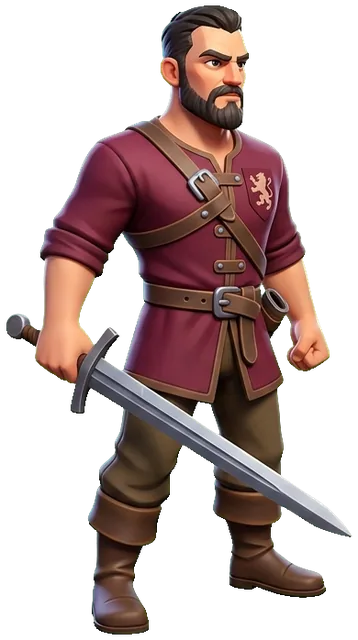
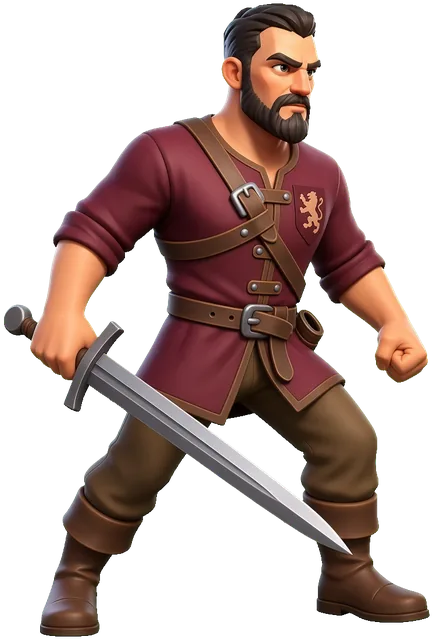
art: rigenera il Lord in posa di combattimento e aggiungi le silhouette di parallasse
- gen_art.py: prompt del Lord riscritti (posa eroica rivolta a destra, luce
  calda + controluce freddo) e nuovo gruppo "parallax" con 3 skyline di
  mezzo e 3 fasce di primo piano, generate come silhouette nere pure su
  fondo chroma verde cosi' da poter essere tinte a runtime per ogni regione.
- L'import di emergentintegrations diventa lazy: la post-produzione
  (chroma key, trim, manifest) ora funziona anche senza l'SDK.
- Rigenerati i 3 ritratti del Lord e i 6 nuovi livelli, manifest aggiornato.

diff --git a/frontend/src/art/manifest.ts b/frontend/src/art/manifest.ts
@@ -139,6 +139,12 @@ export const ART: Record<string, number> = {
   "monsters/world_beast": require("../../assets/art/monsters/world_beast.webp"),
   "monsters/world_devourer": require("../../assets/art/monsters/world_devourer.webp"),
   "monsters/wyvern": require("../../assets/art/monsters/wyvern.webp"),
+  "parallax/fg_bones": require("../../assets/art/parallax/fg_bones.webp"),
+  "parallax/fg_flora": require("../../assets/art/parallax/fg_flora.webp"),
+  "parallax/fg_rocks": require("../../assets/art/parallax/fg_rocks.webp"),
+  "parallax/mid_forest": require("../../assets/art/parallax/mid_forest.webp"),
+  "parallax/mid_peaks": require("../../assets/art/parallax/mid_peaks.webp"),
+  "parallax/mid_ruins": require("../../assets/art/parallax/mid_ruins.webp"),
   "resources/clay": require("../../assets/art/resources/clay.webp"),
   "resources/event_tokens": require("../../assets/art/resources/event_tokens.webp"),
   "resources/forge_dust": require("../../assets/art/resources/forge_dust.webp"),

diff --git a/backend/scripts/gen_art.py b/backend/scripts/gen_art.py
@@ -21,7 +21,6 @@ from PIL import Image, ImageFilter
 BACKEND = Path(__file__).resolve().parents[1]
 load_dotenv(BACKEND / ".env")
 sys.path.insert(0, str(BACKEND))
-from emergentintegrations.llm.chat import LlmChat, UserMessage  # noqa: E402
 
 MODEL = "gemini-3.1-flash-image-preview"
 CANON = json.load(open(BACKEND / "canon" / "IDLE_1_v1.1_CANONICAL_SPEC.json"))
@@ -55,12 +54,40 @@ def background_prompts():
 
 
 def lord_prompts():
-    base = "Exactly ONE character (single figure, no turnaround, no multiple views): The Lord, heroic human knight commander, mid-30s, determined face, short dark hair and beard, full body 3/4 view facing RIGHT, holding a longsword in the right hand"
+    # v1.10: heroic combat stance instead of the old idle pose, plus rim light, so the Lord reads against the battle backdrop.
+    base = ("Exactly ONE character (single figure, no turnaround, no multiple views): The Lord, heroic human knight commander, mid-30s, determined face, short dark hair and beard, "
+            "full body 3/4 view FACING RIGHT, heroic dynamic combat stance with the weight forward on the front leg, powerful heroic proportions, crisp readable silhouette")
+    light = ("strong warm key light from the upper right, cool rim light along the right edge outlining the body and the blade, soft ambient occlusion, high detail, "
+             "complete body from head to feet with the feet fully visible, centered")
     return [
-        ("lord/base", f"{base}, wearing a simple burgundy tunic with leather straps and a small heraldic emblem, no armor, no helmet, standing battle stance, complete body with feet, centered, {STYLE}, {GREEN}"),
-        ("lord/armored", f"{base}, wearing polished steel plate armor with gold trim, helmet with a burgundy plume, round heraldic shield in the left hand, standing battle stance, complete body with feet, centered, {STYLE}, {GREEN}"),
-        ("lord/royal", f"{base}, wearing ornate gold-and-steel royal armor, a golden crown, long crimson cape, glowing legendary sword, kite shield with a dragon crest, standing battle stance, complete body with feet, centered, {STYLE}, {GREEN}"),
+        ("lord/base", f"{base}, wearing a burgundy tunic with leather straps and a small golden lion emblem, no armor, no helmet, longsword held low and forward in the right hand ready to strike, left hand clenched, {light}, {STYLE}, {GREEN}"),
+        ("lord/armored", f"{base}, wearing polished steel plate armor with gold trim, helmet with a burgundy plume, burgundy cape billowing behind, heraldic lion shield braced forward on the left arm, longsword raised diagonally mid-swing, {light}, {STYLE}, {GREEN}"),
+        ("lord/royal", f"{base}, wearing ornate gold-and-steel royal armor with lion pauldrons, a golden crown, long crimson cape sweeping behind, kite shield with a dragon crest, glowing runed longsword extended forward spilling pale blue light on the armor, {light}, {STYLE}, {GREEN}"),
     ]
+
+
+# Parallax silhouettes (v1.10): flat black shapes, chroma-keyed to alpha and tinted per region in the app, so three
+# reusable mid-distance skylines and three foreground strips cover all ten regions.
+PARALLAX_MID = {
+    "peaks": "a range of jagged rocky mountain peaks and sharp crags of varying heights",
+    "ruins": "the ruins of an ancient fortress city: broken towers, crumbling walls, collapsed arches and a leaning obelisk of varying heights",
+    "forest": "a dense forest treeline of pines, oaks and a few bare twisted trees of varying heights",
+}
+PARALLAX_FG = {
+    "rocks": "a rugged rocky ridge with scattered boulders, jagged stones and cracked rock slabs, with a few taller rock spires",
+    "flora": "overgrown vegetation: tall grass tufts, ferns, reeds, a few broken branches and leafy bushes, with a few taller stalks",
+    "bones": "grim battlefield debris: scattered bones, a few skulls, broken spears and tattered banner poles leaning at angles, cracked stone shards",
+}
+SILHOUETTE = ("Pure solid BLACK silhouette shapes only (no interior detail, no shading, no gradient). No characters, no text, no watermark, no border, "
+              "flat 2D vector shapes, clean crisp edges. Everything else in the frame is pure flat chroma green (#00FF00)")
+
+
+def parallax_prompts():
+    out = [(f"parallax/mid_{k}", f"Game art asset: a wide horizontal mid-distance silhouette skyline for a 2D side-scrolling fantasy game parallax background, showing {v}, "
+            f"the tallest shapes reaching about 70% of the frame height, continuous across the full width and touching the bottom edge. {SILHOUETTE}.") for k, v in PARALLAX_MID.items()]
+    out += [(f"parallax/fg_{k}", f"Game art asset: a wide horizontal foreground silhouette strip for a 2D side-scrolling fantasy game, used as the closest parallax layer, showing {v}, "
+             f"occupying only the BOTTOM 45% of the frame with an irregular top edge and touching the bottom edge continuously across the full width. {SILHOUETTE}.") for k, v in PARALLAX_FG.items()]
+    return out
 
 
 BUILDING_DESC = {
@@ -266,10 +293,10 @@ def vfx_prompts():
     ]
 
 
-GROUPS = {"monsters": monster_prompts, "backgrounds": background_prompts, "lord": lord_prompts, "buildings": building_prompts, "ground": ground_prompts, "units": unit_prompts, "splash": splash_prompts, "tiles": tile_prompts, "items": item_prompts, "resources": resource_prompts, "vfx": vfx_prompts, "skins": skin_prompts, "hub": hub_prompts}
-TRANSPARENT = {"monsters", "lord", "buildings", "units", "items", "resources", "skins"}
+GROUPS = {"monsters": monster_prompts, "backgrounds": background_prompts, "lord": lord_prompts, "buildings": building_prompts, "ground": ground_prompts, "units": unit_prompts, "splash": splash_prompts, "tiles": tile_prompts, "items": item_prompts, "resources": resource_prompts, "vfx": vfx_prompts, "skins": skin_prompts, "hub": hub_prompts, "parallax": parallax_prompts}
+TRANSPARENT = {"monsters", "lord", "buildings", "units", "items", "resources", "skins", "parallax"}
 LUMA_ALPHA = {"vfx"}
-MAX_SIDE = {"monsters": 512, "lord": 640, "buildings": 640, "backgrounds": 1280, "ground": 1280, "units": 384, "splash": 1280, "tiles": 256, "items": 256, "resources": 192, "vfx": 512, "skins": 640, "hub": 768}
+MAX_SIDE = {"monsters": 512, "lord": 640, "buildings": 640, "backgrounds": 1280, "ground": 1280, "units": 384, "splash": 1280, "tiles": 256, "items": 256, "resources": 192, "vfx": 512, "skins": 640, "hub": 768, "parallax": 1024}
 
 
 def luma_to_alpha(img: Image.Image) -> Image.Image:
@@ -354,6 +381,8 @@ def postprocess(group: str, raw_path: Path, out_path: Path):
 
 
 async def generate(prompt: str, raw_path: Path, retries: int = 3) -> bool:
+    from emergentintegrations.llm.chat import LlmChat, UserMessage  # imported here so postprocessing works without the LLM SDK
+
     for attempt in range(retries):
         try:
             chat = LlmChat(api_key=os.environ["EMERGENT_LLM_KEY"], session_id=f"art-{raw_path.stem}-{attempt}", system_message="You are a senior game concept artist producing production-ready 3D-styled game assets.")
